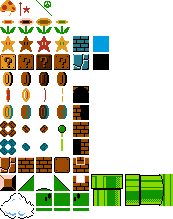
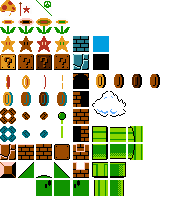
Started second layer of background

diff --git a/BackgroundAssets.cpp b/BackgroundAssets.cpp
@@ -1,0 +1,88 @@
+
+
+#include "BackgroundAssets.h"
+
+BackgroundAssets::BackgroundAssets()
+{
+	const int HEIGHT = 16;
+	const int WIDTH = 220;
+
+	int map[WIDTH][HEIGHT] = {
+		0 , 0 , 0 , 0 , 0 , 0 , 0 , 0 , 0 , 0 , 0 , 0 , 0 , 0 , 0 , 0 ,
+		0 , 0 , 0 , 0 , 0 , 0 , 0 , 0 , 0 , 0 , 0 , 0 , 0 , 0 , 0 , 0 ,
+		0 , 0 , 0 , 0 , 0 , 0 , 0 , 0 , 1 , 2 , 0 , 0 , 0 , 0 , 0 , 0 ,
+		0 , 0 , 0 , 0 , 0 , 0 , 0 , 0 , 3 , 4 , 0 , 0 , 0 , 0 , 0 , 0 ,
+		0 , 0 , 0 , 0 , 0 , 0 , 0 , 0 , 0 , 0 , 0 , 0 , 0 , 0 , 0 , 0 ,
+		0 , 0 , 0 , 0 , 0 , 0 , 0 , 0 , 0 , 0 , 0 , 0 , 0 , 0 , 0 , 0 ,
+		0 , 0 , 0 , 0 , 0 , 0 , 0 , 0 , 0 , 0 , 0 , 0 , 0 , 0 , 0 , 0 ,
+		0 , 0 , 0 , 0 , 0 , 0 , 0 , 0 , 0 , 0 , 0 , 0 , 0 , 0 , 0 , 0 ,
+		0 , 0 , 0 , 0 , 0 , 0 , 0 , 0 , 0 , 0 , 0 , 0 , 0 , 0 , 0 , 0 ,
+		0 , 0 , 0 , 0 , 0 , 0 , 0 , 0 , 0 , 0 , 0 , 0 , 0 , 0 , 0 , 0 ,
+		0 , 0 , 5 , 0 , 0 , 0 , 0 , 0 , 0 , 0 , 0 , 0 , 0 , 0 , 0 , 0 ,
+		0 , 6 , 9 , 7 , 0 , 0 , 0 , 0 , 0 , 0 , 0 , 0 , 0 , 0 , 0 , 0 ,
+		6 , 9 , 8 , 10, 7 , 0 , 0 , 0 , 0 , 0 , 0 , 0 , 0 , 0 , 0 , 0 ,
+		0 , 0 , 0 , 0 , 0 , 0 , 0 , 0 , 0 , 0 , 0 , 0 , 0 , 0 , 0 , 0 ,
+		0 , 0 , 0 , 0 , 0 , 0 , 0 , 0 , 0 , 0 , 0 , 0 , 0 , 0 , 0 , 0 ,
+		0 , 0 , 0 , 0 , 0 , 0 , 0 , 0 , 0 , 0 , 0 , 0 , 0 , 0 , 0 , 0 ,
+	};
+
+	for (int i = 0; i < WIDTH; ++i)
+	{
+		for (int j = 0; j < HEIGHT; ++j)
+		{
+			Sprite* temp = nullptr;
+			switch (map[j][i])
+			{
+			case 0:
+				break;
+			case 1:
+				temp = new Sprite(Texture::ID::Level1n1, CLOUD1(), FRAME_SIZE());
+				temp->SetPosition(i * FRAME_SIZE().x, j * FRAME_SIZE().y);
+				break;
+			case 2:
+				temp = new Sprite(Texture::ID::Level1n1, CLOUD2(), FRAME_SIZE());
+				temp->SetPosition(i * FRAME_SIZE().x, j * FRAME_SIZE().y);
+				break;
+			case 3:
+				temp = new Sprite(Texture::ID::Level1n1, CLOUD3(), FRAME_SIZE());
+				temp->SetPosition(i * FRAME_SIZE().x, j * FRAME_SIZE().y);
+				break;
+			case 4:
+				temp = new Sprite(Texture::ID::Level1n1, CLOUD4(), FRAME_SIZE());
+				temp->SetPosition(i * FRAME_SIZE().x, j * FRAME_SIZE().y);
+				break;
+			case 5:
+				temp = new Sprite(Texture::ID::Level1n1, MOUNTAINTOP(), FRAME_SIZE());
+				temp->SetPosition(i * FRAME_SIZE().x, j * FRAME_SIZE().y);
+				break;
+			case 6:
+				temp = new Sprite(Texture::ID::Level1n1, MOUNTAINLEFT(), FRAME_SIZE());
+				temp->SetPosition(i * FRAME_SIZE().x, j * FRAME_SIZE().y);
+				break;
+			case 7:
+				temp = new Sprite(Texture::ID::Level1n1, MOUNTAINRIGHT(), FRAME_SIZE());
+				temp->SetPosition(i * FRAME_SIZE().x, j * FRAME_SIZE().y);
+				break;
+			case 8:
+				temp = new Sprite(Texture::ID::Level1n1, MOUNTAINFILL(), FRAME_SIZE());
+				temp->SetPosition(i * FRAME_SIZE().x, j * FRAME_SIZE().y);
+				break;
+			case 9:
+				temp = new Sprite(Texture::ID::Level1n1, MOUNTAINDOTS1(), FRAME_SIZE());
+				temp->SetPosition(i * FRAME_SIZE().x, j * FRAME_SIZE().y);
+				break;
+			case 10:
+				temp = new Sprite(Texture::ID::Level1n1, MOUNTAINDOTS2(), FRAME_SIZE());
+				temp->SetPosition(i * FRAME_SIZE().x, j * FRAME_SIZE().y);
+				break;
+			default:
+				break;
+			}
+		}
+	}
+}
+
+BackgroundAssets::~BackgroundAssets()
+{
+
+}

diff --git a/BackgroundAssets.h b/BackgroundAssets.h
@@ -1,0 +1,25 @@
+#pragma once
+
+#include "Common.h"
+#include "Libraries.h"
+
+class BackgroundAssets
+{
+public:
+	BackgroundAssets();
+	~BackgroundAssets();
+
+private:
+	const point<int> FRAME_SIZE() { return{ 16, 16 }; };
+	const point<int> CLOUD1() { return{ 92, 91 }; };
+	const point<int> CLOUD2() { return{ 110, 91 }; };
+	const point<int> CLOUD3() { return{ 92, 109 }; };
+	const point<int> CLOUD4() { return{ 110, 109 }; };
+	const point<int> MOUNTAINLEFT() { return{ 18, 162 }; };
+	const point<int> MOUNTAINRIGHT() { return{ 54, 162 }; };
+	const point<int> MOUNTAINFILL() { return{ 54, 180 }; };
+	const point<int> MOUNTAINTOP() { return{ 36, 162 }; };
+	const point<int> MOUNTAINDOTS1() { return{ 36, 180 }; };
+	const point<int> MOUNTAINDOTS2() { return{ 73, 180 }; };
+};
+

diff --git a/SuperMarioBros.cpp b/SuperMarioBros.cpp
@@ -3,11 +3,13 @@
 #include "Mario.h"
 #include "Level1n1.h"
 #include "Background.h"
+#include "BackgroundAssets.h"
 
 SuperMarioBros::SuperMarioBros()
 {
 	// Plus profond a plus pres
 	Background* bkg = new Background();
+	BackgroundAssets* bkgA = new BackgroundAssets();
 	Level1n1* level1n1 = new Level1n1();
 	Mario* mario = new Mario();
 }

diff --git a/Background.h b/Background.h
@@ -1,9 +1,7 @@
 #pragma once
 
 #include "Common.h"
-#include "Level1n1.h"
 #include "Libraries.h"
-#include "Component.h"
 
 class Background
 {
